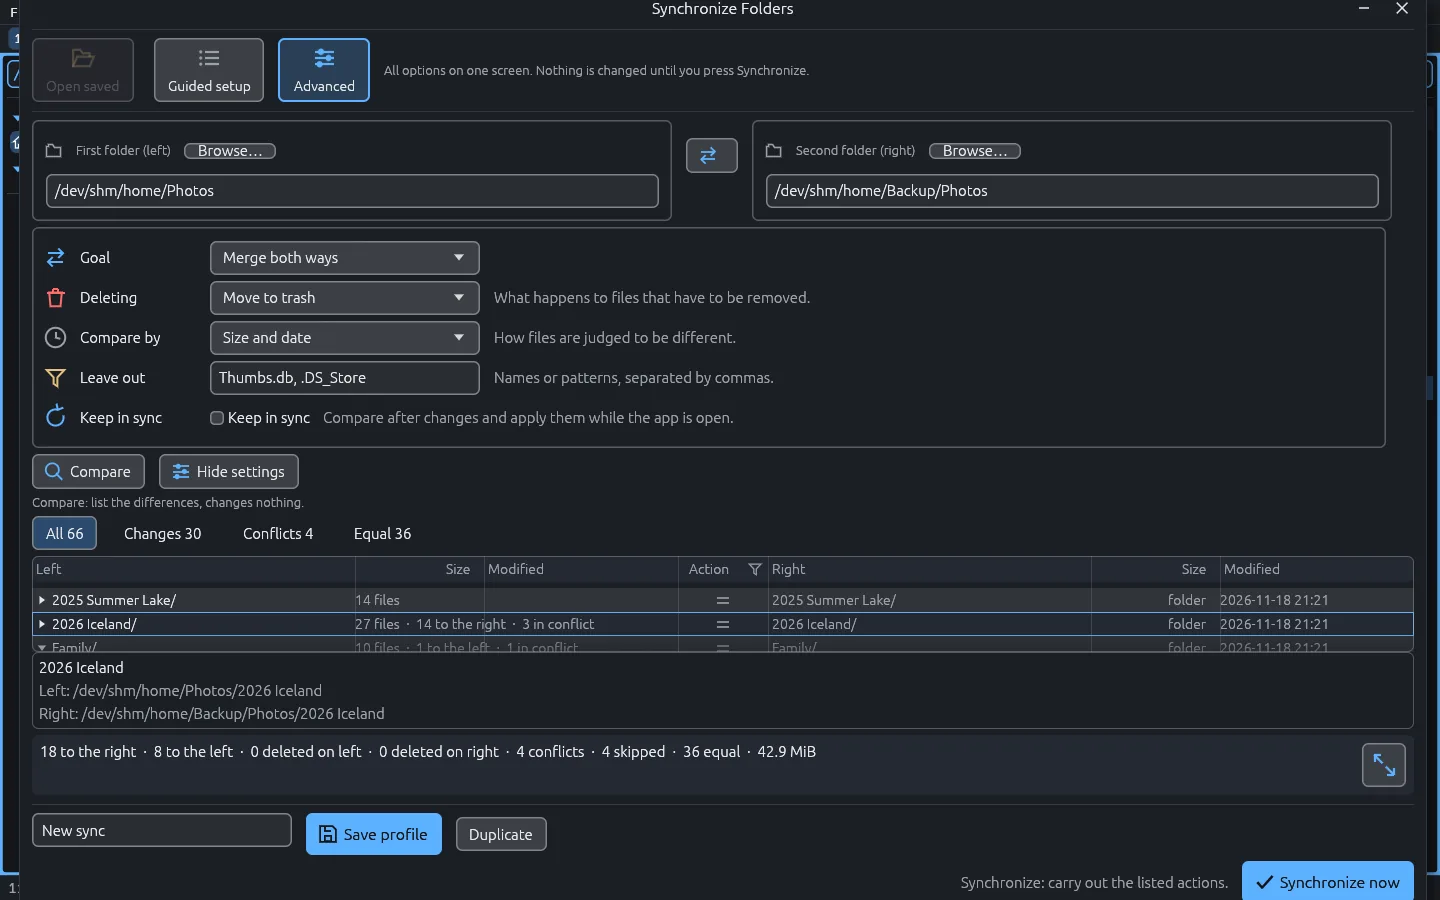
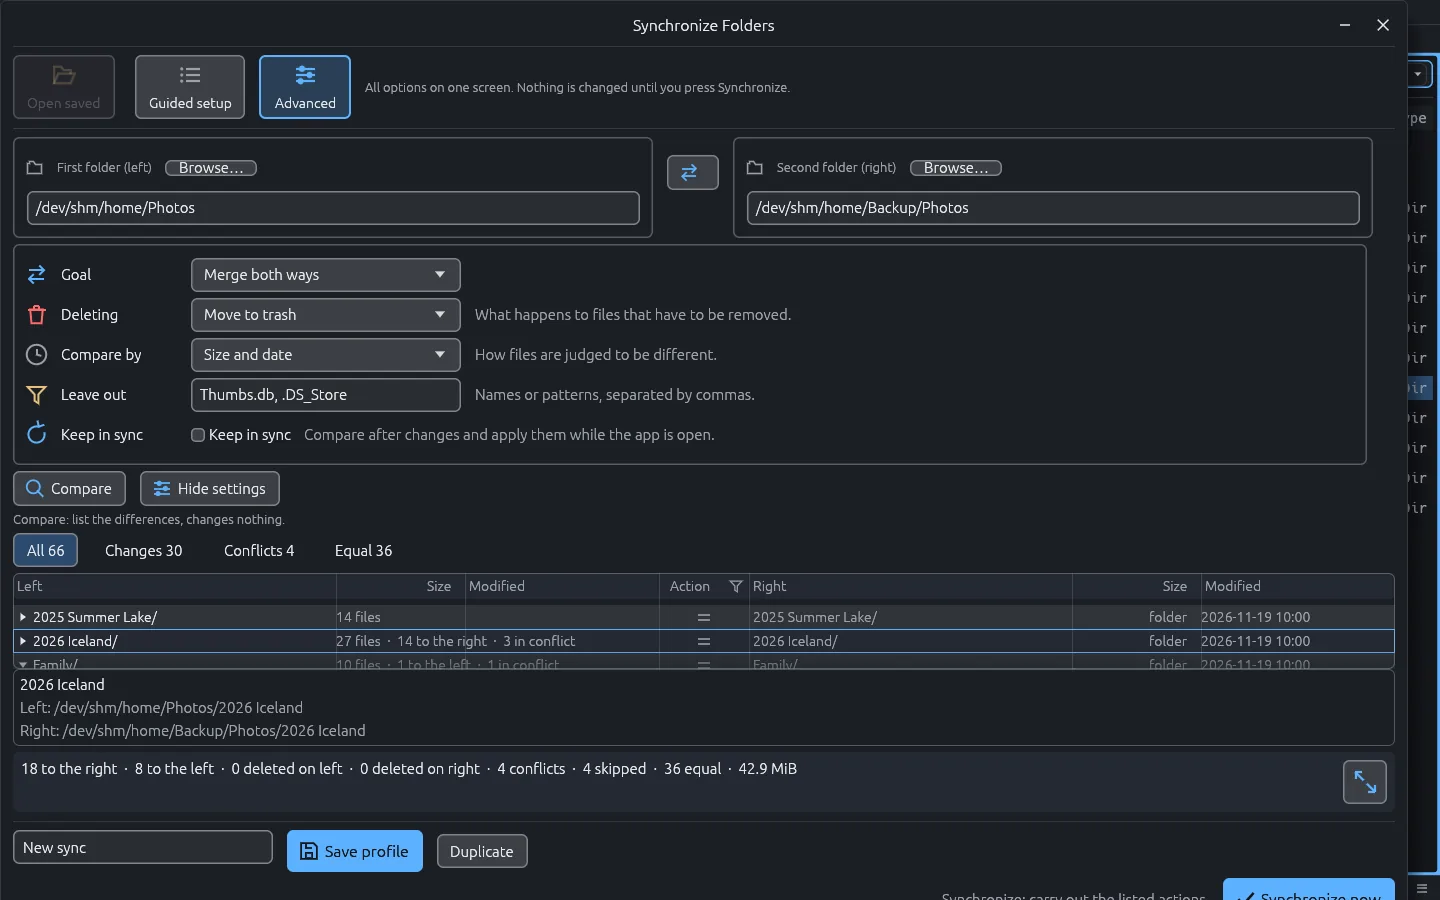
Retake the sync screenshots with the 0.3.0 release build
All six Synchronize Folders scenes in dark and light. The Review and
Conflicts lists now keep their folder rows; the Activity shot is a Keep
in sync run to the demo SFTP server that ended with every file copied.
AGENTS.md: capture notes for the taller window and button positions.

Changed region(s): [[0.0, 0.0, 1.0, 1.0], [0.0, 0.9022, 0.4062, 0.9956]]

diff --git a/AGENTS.md b/AGENTS.md
@@ -70,5 +70,5 @@ Open `index.html`, `features.html`, `sync.html`, `install.html` and `roadmap.htm
 - Screenshot `<picture>` sources intentionally alternate: most match the page theme, every other one shows the opposite theme so readers see both (this is stated in the Features intro).
 - Capture gotchas: there is no window manager, so call `xdotool windowfocus --sync <win>` before typing; egui repaints only on input, so nudge the pointer before each capture; resizing the window afterwards leaves a stale GL surface, so set `[window_geometry] size = [1440.0, 900.0]` in `$XDG_CONFIG_HOME/filemanagerultra/prefs.toml` before launch (and `check_updates = false`). Set the theme with `theme = "dark"` there, or toggle Ctrl+Shift+T and then nudge the pointer.
 - Media scenes: seed `$XDG_CONFIG_HOME/filemanagerultra/media-queue.json` (mode 600; `paths`, `index`, `position`, `groups` for playlist folders, `items` for audiobook positions) instead of building the playlist by hand. Give the app a private `XDG_RUNTIME_DIR` and a `~/.asoundrc` with `pcm.!default { type null }` so demo audio never reaches real speakers; the null sink drains faster than real time, so pause right after Play. Stop only the instance you started (track its PID), never `pkill` by name: the user may be running the app.
-- Sync scenes (`sync.html`): `make_demo_data.py` builds `~/Photos` and an older `~/Backup/Photos` that differ in every way the grid can show (new, newer, only in the backup, a removed folder, files edited on both sides for Two-way conflicts, `Thumbs.db`/`.DS_Store` to leave out). Compare only; never run Synchronize on that pair, or regenerate it afterwards. Copies on `/dev/shm` finish too fast to catch progress, so the Activity shot syncs to the demo SFTP server (`sftp://demo@127.0.0.1:2222/backups/Photos`) with Keep in sync ticked (that compare opens the sign-in and the host key prompt, then asks to Start syncing), after adding ~800 files of 150–350 KB in a temporary `Photos/Camera roll 2024` (remove it again); capture a second or so after minimizing. Drag the sync window's title and resize grip to fill the screen; since 0.3.0 its list grows with the window.
+- Sync scenes (`sync.html`): `make_demo_data.py` builds `~/Photos` and an older `~/Backup/Photos` that differ in every way the grid can show (new, newer, only in the backup, a removed folder, files edited on both sides for Two-way conflicts, `Thumbs.db`/`.DS_Store` to leave out). Compare only; never run Synchronize on that pair, or regenerate it afterwards. Copies on `/dev/shm` finish too fast to catch progress, so the Activity shot syncs to the demo SFTP server (`sftp://demo@127.0.0.1:2222/backups/Photos`) with Keep in sync ticked (that compare opens the sign-in and the host key prompt, then asks to Start syncing), after adding ~800 files of 150–350 KB in a temporary `Photos/Camera roll 2024` (remove it again); capture a second or so after minimizing. Drag the sync window's title and resize grip to fill the screen; since 0.3.0 its list grows with the window, so the guided Back/Next buttons sit near the bottom. In Advanced, showing the settings again after a compare makes the window taller than the screen and pushes its title off the top: drag the title back down (the bottom then runs off the screen instead).
 - `assets/theme.js` powers the Auto/Light/Dark toggle (swaps `data-theme` and the `<picture>` source media).
